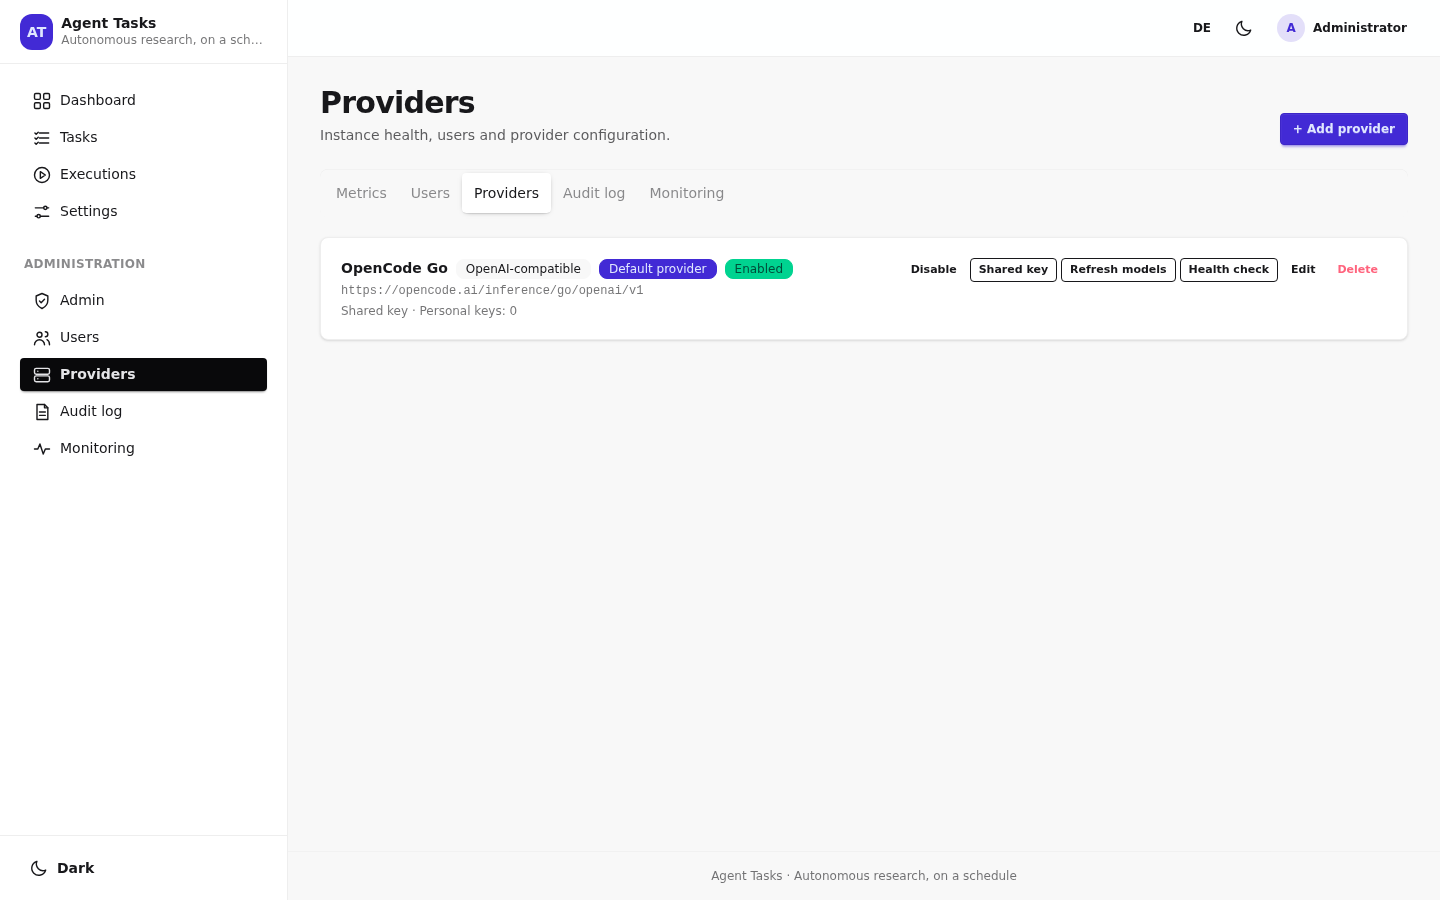
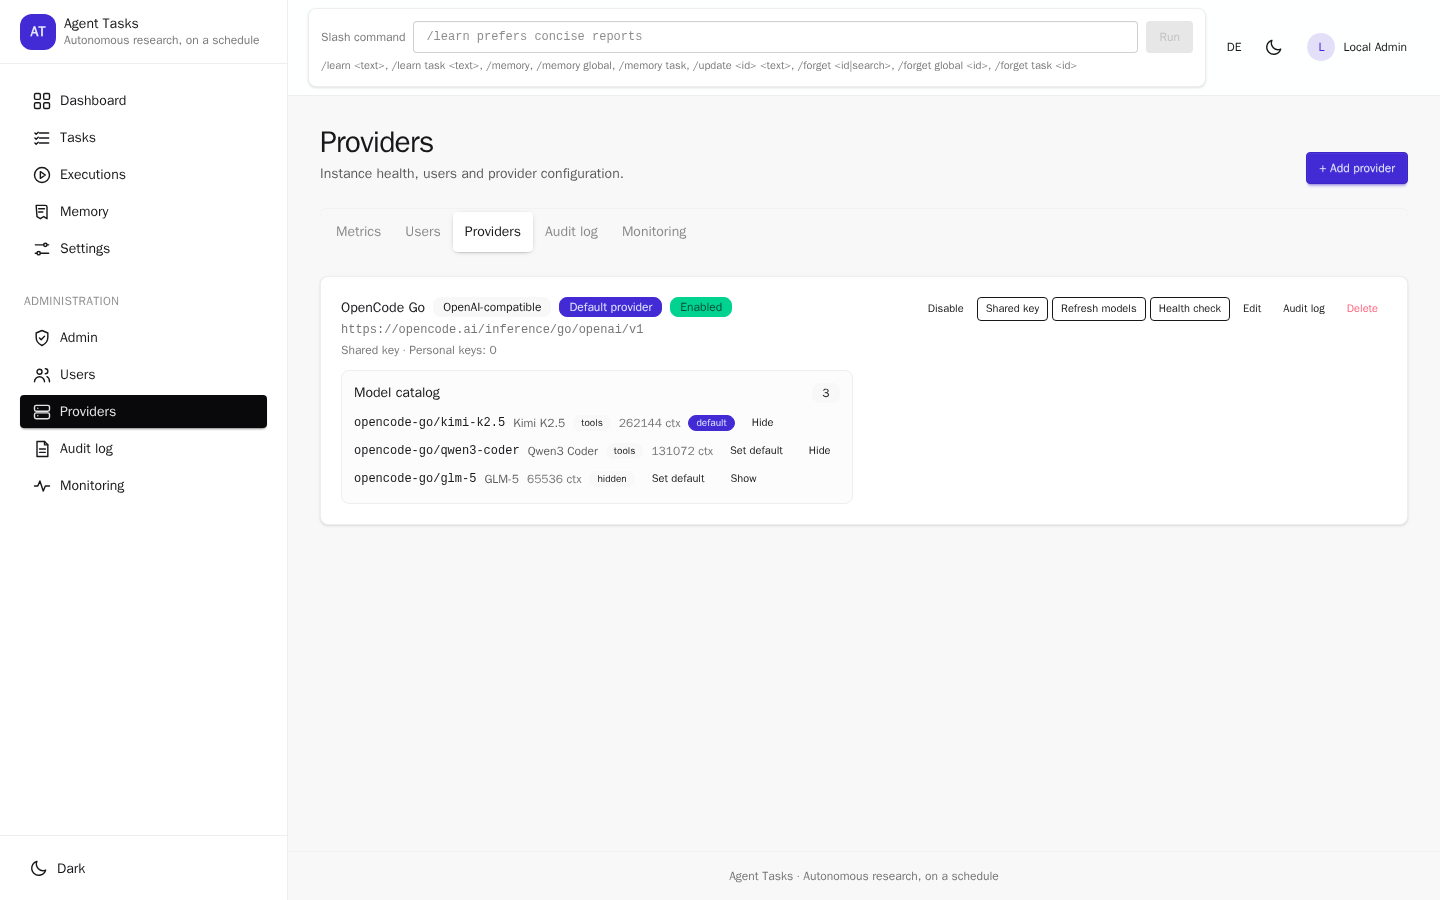
test(admin): capture the provider page in empty, filled, error and rotated states (en/de)
- new acceptance spec drives the real admin page on a disposable stack: empty, filled catalog with default/hidden models, a failing health check and a key rotation; the stored key is asserted blank in the dialog before and after rotation, and exactly one shared credential remains
- 8 screenshots (4 states x en/de) are committed under docs/verification/admin-providers/ and run with pnpm test:screenshots:acceptance; a separate Playwright config keeps this state-mutating spec out of the read-mostly UI-review run
- docs/images/admin-providers.png was regenerated from the running compose stack (previously stale, no catalog controls) and admin-providers.de.png now shows the German UI; README and USER_GUIDE describe the catalog/default/hidden/health/audit controls and link the German variant
- the capture script accepts DOC_LANGUAGE and DOC_SHOTS, logs in through stable form ids and always opens /login first

Verify: pnpm test:screenshots:acceptance (2 passed, 8 PNGs); node --check scripts/capture-readme-screenshots.mjs; pnpm lint; ratchet check (11/11)

diff --git a/tests/acceptance/admin-providers.spec.ts b/tests/acceptance/admin-providers.spec.ts
@@ -1,0 +1,169 @@
+import { randomUUID } from 'node:crypto';
+import path from 'node:path';
+import process from 'node:process';
+import { expect, test } from '@playwright/test';
+import type { APIRequestContext, BrowserContext, Page } from '@playwright/test';
+
+/**
+ * Acceptance evidence for #30: the admin provider page in its empty, filled,
+ * error and rotated states, in English and German.
+ *
+ * Run against a disposable stack:
+ *   E2E_BASE_URL=http://localhost:8080 E2E_ADMIN_EMAIL=… E2E_ADMIN_PASSWORD=… \
+ *     pnpm test:screenshots:acceptance
+ *
+ * It removes existing
+ * providers to reach the empty state, then builds one OpenAI-compatible provider
+ * whose catalog is declared in `config.models` — `models/refresh` discovers no
+ * endpoint and falls back to the declared models, exactly like a real connection
+ * whose `/models` route is unavailable. No network access and no real key are
+ * needed; the key is a random string that never leaves the encrypted column.
+ */
+
+const ADMIN_EMAIL = process.env.E2E_ADMIN_EMAIL ?? process.env.ADMIN_EMAIL ?? 'admin@example.com';
+const ADMIN_PASSWORD = process.env.E2E_ADMIN_PASSWORD ?? process.env.ADMIN_PASSWORD ?? 'local-admin-password';
+const OUT = path.resolve(process.cwd(), 'docs/verification/admin-providers');
+
+const LANGUAGES = [
+  { code: 'en', locale: 'en-US', empty: 'No providers configured yet.', health: /Health check/ },
+  { code: 'de', locale: 'de-DE', empty: 'Noch keine Anbieter konfiguriert.', health: /Zustandsprüfung/ },
+] as const;
+
+const PROVIDER_NAME = 'OpenCode Go';
+const MODELS = [
+  { id: 'opencode-go/kimi-k2.5', label: 'Kimi K2.5', supportsTools: true, contextLength: 262_144 },
+  { id: 'opencode-go/qwen3-coder', label: 'Qwen3 Coder', supportsTools: true, contextLength: 131_072 },
+  { id: 'opencode-go/glm-5', label: 'GLM-5', supportsTools: false, contextLength: 65_536 },
+];
+
+interface AdminProviderRow {
+  id: string;
+  name: string;
+}
+
+async function signIn(page: Page, language: (typeof LANGUAGES)[number]): Promise<void> {
+  await page.goto('/login', { waitUntil: 'networkidle' });
+  await page.locator('#login-email').fill(ADMIN_EMAIL);
+  await page.locator('#login-password').fill(ADMIN_PASSWORD);
+  await page.locator('form button[type="submit"]').first().click();
+  await expect(page).not.toHaveURL(/\/login/, { timeout: 20_000 });
+  await page.waitForLoadState('networkidle');
+  // The locale comes from localStorage, so confirm the shell really rendered it.
+  await expect(page.getByRole('button', { name: /Language|Sprache/ })).toHaveText(language.code === 'de' ? 'EN' : 'DE');
+}
+
+async function adminProviders(request: APIRequestContext): Promise<AdminProviderRow[]> {
+  const response = await request.get('/api/admin/providers');
+  expect(response.ok(), await response.text()).toBeTruthy();
+  return (await response.json()) as AdminProviderRow[];
+}
+
+async function capture(page: Page, language: string, state: string, fullPage = true): Promise<void> {
+  await page.waitForTimeout(300);
+  await page.screenshot({ path: path.join(OUT, `admin-providers-${state}-${language}.png`), fullPage });
+}
+
+async function createProvider(request: APIRequestContext): Promise<string> {
+  const created = await request.post('/api/admin/providers', {
+    data: {
+      name: PROVIDER_NAME,
+      kind: 'openai-compatible',
+      enabled: true,
+      isDefault: true,
+      config: {
+        // Single-label http host: valid for an internal service and unreachable
+        // here, which is what produces the error state.
+        baseUrl: 'http://admin-providers-acceptance:1/v1',
+        models: MODELS,
+        defaultModel: MODELS[0]?.id,
+        disabledModels: [MODELS[2]?.id],
+      },
+    },
+  });
+  expect(created.ok(), await created.text()).toBeTruthy();
+  const { id } = (await created.json()) as { id: string };
+
+  const credential = await request.post(`/api/admin/providers/${id}/credentials`, {
+    data: { apiKey: `rotated-${randomUUID()}`, label: 'default' },
+  });
+  expect(credential.ok(), await credential.text()).toBeTruthy();
+
+  const refreshed = await request.post(`/api/admin/providers/${id}/models/refresh`);
+  expect(refreshed.ok(), await refreshed.text()).toBeTruthy();
+  return id;
+}
+
+test.describe.configure({ mode: 'serial' });
+
+for (const language of LANGUAGES) {
+  test(`admin provider page: empty, filled, error and rotated (${language.code})`, async ({ browser }) => {
+    const context: BrowserContext = await browser.newContext({
+      viewport: { width: 1440, height: 900 },
+      locale: language.locale,
+      colorScheme: 'light',
+    });
+    await context.addInitScript((code) => {
+      try {
+        localStorage.setItem('agent-tasks.lang', code);
+      } catch {
+        /* storage unavailable */
+      }
+    }, language.code);
+
+    try {
+      const page = await context.newPage();
+      await signIn(page, language);
+
+      // Empty state: a fresh instance has no provider at all.
+      for (const provider of await adminProviders(context.request)) {
+        const removed = await context.request.delete(`/api/admin/providers/${provider.id}`);
+        expect(removed.ok(), `delete ${provider.name}: ${await removed.text()}`).toBeTruthy();
+      }
+      await page.goto('/admin/providers', { waitUntil: 'networkidle' });
+      await expect(page.getByText(language.empty)).toBeVisible();
+      await capture(page, language.code, 'empty');
+
+      const id = await createProvider(context.request);
+      await page.reload({ waitUntil: 'networkidle' });
+      await expect(page.getByRole('heading', { name: PROVIDER_NAME })).toBeVisible();
+      await expect(page.getByText('opencode-go/glm-5')).toBeVisible();
+      await expect(page.getByText('opencode-go/kimi-k2.5')).toBeVisible();
+      await capture(page, language.code, 'filled');
+
+      // Error state: the health check reports the unreachable endpoint and the
+      // card shows the failure badge plus the checked timestamp.
+      await page.getByRole('button', { name: language.health }).click();
+      await expect(page.getByText(/unreachable|nicht erreichbar/)).toBeVisible({ timeout: 30_000 });
+      await capture(page, language.code, 'error');
+
+      // Rotated state: the dialog starts empty (the stored key is never echoed),
+      // saving a new secret succeeds and the card still only reports "key set".
+      await page.getByRole('button', { name: /Shared key|Gemeinsamer Schlüssel/ }).click();
+      const dialog = page.getByRole('dialog');
+      await expect(dialog).toBeVisible();
+      await expect(dialog.locator('#shared-api-key')).toHaveValue('');
+      await dialog.locator('#shared-api-key').fill(`rotated-${randomUUID()}`);
+      await dialog.getByRole('button', { name: /^(Save|Speichern)$/ }).click();
+      await expect(page.getByText(/Shared credential saved|Gemeinsamer Schlüssel gespeichert/)).toBeVisible();
+      await capture(page, language.code, 'rotated');
+
+      // Re-opening after the rotation proves again that no value is echoed.
+      await page.getByRole('button', { name: /Shared key|Gemeinsamer Schlüssel/ }).click();
+      await expect(page.getByRole('dialog').locator('#shared-api-key')).toHaveValue('');
+      await page.keyboard.press('Escape');
+
+      // The rotated key is the one the API keeps: exactly one shared credential.
+      await expect.poll(async () => {
+        const list = (await (await context.request.get('/api/admin/providers')).json()) as Array<{
+          id: string;
+          sharedCredential: boolean;
+          personalCredentials: number;
+        }>;
+        const row = list.find((provider) => provider.id === id);
+        return row ? `${row.sharedCredential}:${row.personalCredentials}` : 'missing';
+      }).toBe('true:0');
+    } finally {
+      await context.close();
+    }
+  });
+}

diff --git a/playwright.acceptance.config.ts b/playwright.acceptance.config.ts
@@ -1,0 +1,31 @@
+import { defineConfig, devices } from '@playwright/test';
+
+/**
+ * Acceptance captures that mutate shared admin state (the provider list) and
+ * therefore run separately from the read-mostly UI-review set:
+ *   E2E_BASE_URL=http://localhost:8080 pnpm test:screenshots:acceptance
+ *
+ * One desktop project, one worker — the states are sequential by design.
+ */
+export default defineConfig({
+  testDir: './tests/acceptance',
+  testMatch: '**/*.spec.ts',
+  fullyParallel: false,
+  workers: 1,
+  retries: 0,
+  timeout: 120_000,
+  expect: { timeout: 15_000 },
+  reporter: [['list']],
+  use: {
+    baseURL: process.env.E2E_BASE_URL ?? 'http://localhost:8080',
+    trace: 'off',
+    video: 'off',
+  },
+  outputDir: 'test-results/acceptance',
+  projects: [
+    {
+      name: 'Desktop Chrome',
+      use: { ...devices['Desktop Chrome'], viewport: { width: 1440, height: 900 } },
+    },
+  ],
+});

diff --git a/docs/VERIFICATION_REPORT.md b/docs/VERIFICATION_REPORT.md
@@ -63,6 +63,7 @@ Current verification for this change:
 | `pnpm --filter @agent-tasks/web test` | **45 passed**, 10 files (includes e-mail block preview and sanitizer) |
 | `OPENCODE_LIVE_TEST=1` (real OpenCode 2.2.5 + MCP bridge) | **3 passed**: final answer, `emailBlocks = [heading, paragraph]`, and a retrieved source persisted through the Executor |
 | `services/opencode-provisioner` unit tests | **6 passed** |
+| `pnpm test:screenshots:acceptance` (admin provider page) | **2 passed**: empty, filled, error and rotated states in en + de; the 8 PNGs are committed under `docs/verification/admin-providers/` (`tests/acceptance/admin-providers.spec.ts`) |
 | `scripts/verify-opencode-provisioner.mjs` in the rebuilt provisioner container | all lifecycle/isolation checks passed (fake credentials only) |
 | `docker compose config -q` + `scripts/check-compose-parity.mjs` | passed |
 | `ratchet check` | **11/11 gates passed** |

diff --git a/docs/USER_GUIDE.md b/docs/USER_GUIDE.md
@@ -162,6 +162,15 @@ shared or per-user key, refresh models and run a health check. This is the only
 place a provider is configured: the deployment environment never seeds one and
 never carries an inference key.
 
+The card lists the discovered catalog. Mark one model as the default for new
+tasks, hide models the task editor should not offer, and read the last health
+result with its timestamp; **Audit log** shows who changed the connection. The
+default and hidden choices are stored in the provider config, so a later model
+refresh keeps them. The key itself is never shown again — the dialog only offers
+to set or rotate it.
+
+German UI: [Anbieter](images/admin-providers.de.png).
+
 ### Instance settings
 
 ![Admin settings](images/admin-settings.png)

diff --git a/README.md b/README.md
@@ -50,6 +50,11 @@ live in one admin area.
 
 ![Providers](docs/images/admin-providers.png)
 
+The provider card lists the discovered model catalog: mark the default model for
+new tasks, hide models from the task editor, run a health check (the badge keeps
+the last result and time) and jump to the audit log. The interface is bilingual —
+[Providers in German](docs/images/admin-providers.de.png).
+
 ![Admin settings](docs/images/admin-settings.png)
 
 ## What you can do
